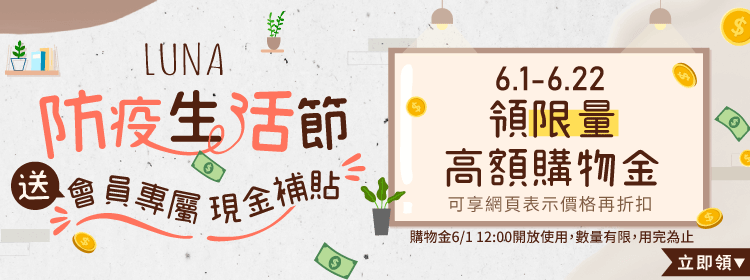
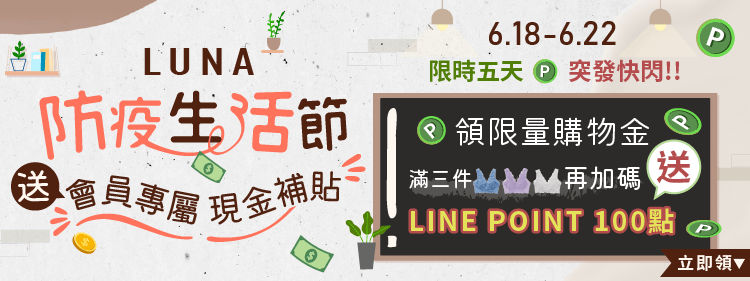
20220617_add LINEPOINT

diff --git a/index.html b/index.html
@@ -12,7 +12,7 @@
         gtag('config', 'UA-186799454-1');
     </script>
 
-    <title>LUNA防疫生活節💯領限量高額購物金｜數量有限，用完為止！</title>
+    <title>LUNA限時５天｜突發快閃⚡領限量購物金｜加碼再送LINE POINTS💯</title>
     <meta name="Description"
         content="日本專利設計小胸福星，輕鬆打造美胸ω歐美伽曲線，美胸不再是大CUP的專利！穿著錯誤尺寸的內衣或是受地心引力影響都會使ω歐美伽曲線變形。只是穿著Luna 晚安內衣改善了ω歐美伽曲線的長度，視覺上的效果就完全不一樣！？鈴木奈奈穿著3個月後成功讓A罩杯看起來有C罩杯！">
     <meta name="keywords" content="luna,luna內衣,晚安內衣,美媞內衣,夜晚美胸,Luna美媞晚安內衣,小胸內衣,睡覺 內衣,睡眠 內衣">
@@ -84,6 +84,15 @@
                             </a>
                         </div>
                         <img src="images/02_fv.png" alt="">
+                        <div class="LINEPOINT">
+                            <img src="images/LINEPOINT_5day.png" alt="">
+                            <div class="LINEPOINT_coupon" style="position: relative;">
+                                <img src="images/LINEPOINT.png" alt="">
+                                <img src="images/LINEPOINT_btn.png" alt="" class="LINEPOINT_btn" alt=""
+                                    style="position: absolute;bottom:27%;right:9%;width:25%;" data-toggle="modal"
+                                    data-target="#LINEPOINTmodal">
+                            </div>
+                        </div>
                         <div id="coupon">
                             <div class="coupon01" style="position: relative;">
                                 <img src="images/coupon01_no.png" alt="">
@@ -189,6 +198,22 @@
                         alert("分享資訊已複製");
                     }
                 </script>
+
+                <!-- Modal LINEPOINT-->
+                <div class="modal fade" id="LINEPOINTmodal" tabindex="-1" role="dialog" aria-labelledby="LINEPOINTLabel"
+                    aria-hidden="true">
+                    <div class="modal-dialog modal-lg" role="document">
+                        <div class="modal-content" style="background-color: transparent;border:none;">
+                            <div class="modal-body mx-auto" style="text-align: center;">
+                                <img src="images/lottery-2.png" alt="" style="width:100%;position: relative;">
+                                <button type="button" class="close" data-dismiss="modal" aria-label="Close"
+                                    style="position: absolute;top:7%;right:8%;">
+                                    <span aria-hidden="true">&times;</span>
+                                </button>
+                            </div>
+                        </div>
+                    </div>
+                </div>
                 <!-- ▲自由編集箇所▲ -->
             </div>
             <!-- contents_standard End -->

diff --git a/css/style.css b/css/style.css
@@ -269,18 +269,18 @@ img.anniversary_2{
     }
 }
 
-.coupon01,.coupon02,.coupon03{
+.coupon01,.coupon02,.coupon03,.LINEPOINT_coupon{
     position: relative;
     width:640px;
     margin:0 auto;
 }
-.coupon01_btn:hover,.coupon02_btn:hover,.coupon03_btn:hover{
+.coupon01_btn:hover,.coupon02_btn:hover,.coupon03_btn:hover,.LINEPOINT_btn:hover{
     opacity: 0.8; 
     cursor: pointer;
 }
 
 @media screen and (max-width: 768px){
-    .coupon01,.coupon02,.coupon03{
+    .coupon01,.coupon02,.coupon03,.LINEPOINT_coupon{
         width:100%;
     }
 }
